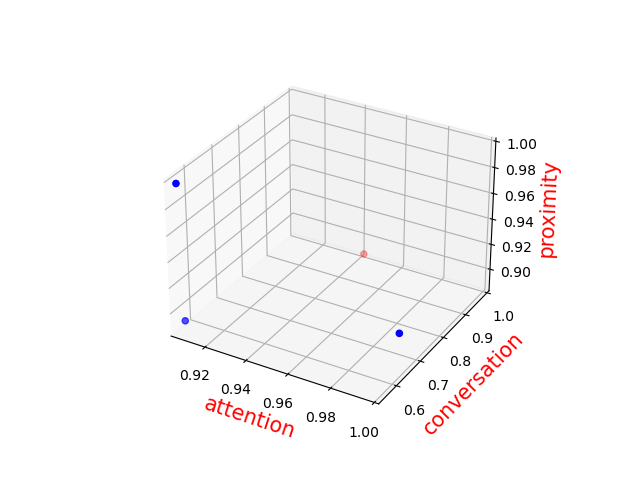
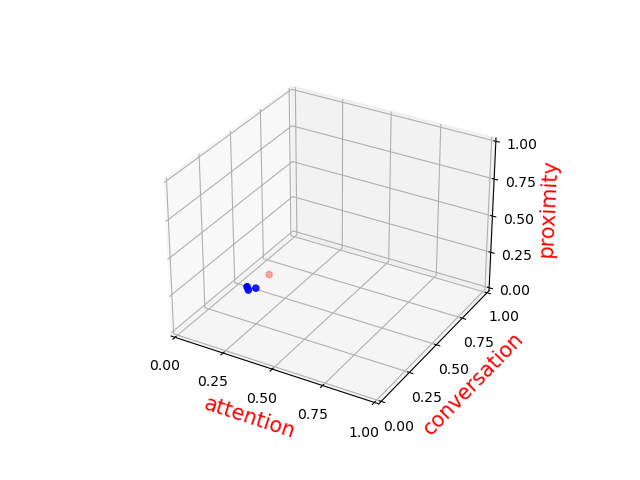
regression

diff --git a/cluster.py b/cluster.py
@@ -4,6 +4,7 @@ import re
 import numpy as np
 import matplotlib.pyplot as plt
 from mpl_toolkits.mplot3d import Axes3D
+import pandas as pd
 
 def extract_group_number(graph_id):
     match = re.search(r'group-(\d+)', graph_id)
@@ -28,11 +29,35 @@ def get_weight(json_file, normalize = False):
             group_weight[node_index[source]] = round(group_weight[node_index[source]] + weight,3)
             group_weight[node_index[target]] = round(group_weight[node_index[target]] + weight,3)
         if normalize:
-            group_weight = group_weight/np.max(group_weight)
+            group_weight = group_weight/np.sum(group_weight)
         edge_list.append(group_weight)
 
     return edge_list
 
+def visualize_cluster_results(group_list):
+    for i in range(len(group_list)):
+        X = np.array(group_list[i])
+
+        colors = ['red', 'blue']
+        mapped_colors = [colors[label] for label in cluster_labels[i]]
+        fig = plt.figure()
+        ax = fig.add_subplot(111, projection='3d')
+        ax.scatter(X[:, 0], X[:, 1], X[:, 2], c=mapped_colors, label='Data Points')
+        ax.set_xlim(np.min(X[:, 0]),np.max(X[:, 0]))
+        ax.set_ylim(np.min(X[:, 1]),np.max(X[:, 1]))
+        ax.set_zlim(np.min(X[:, 2]),np.max(X[:, 2]))
+
+        ax.set_zlabel('proximity', fontdict = {"size":15, 'color': 'red'})
+        ax.set_ylabel('conversation', fontdict = {"size":15, 'color': 'red'})
+        ax.set_xlabel('attention', fontdict = {"size":15, 'color': 'red'})
+        ax.set_xticks([0, 0.25, 0.5, 0.75, 1]) 
+        ax.set_yticks([0, 0.25, 0.5, 0.75, 1])             
+        ax.set_zticks([0, 0.25, 0.5, 0.75, 1])      
+
+        # ax.scatter(kmeans.cluster_centers_[:, 0], kmeans.cluster_centers_[:, 1], kmeans.cluster_centers_[:, 2], c='red', marker='x', label='Cluster Centers')
+        # plt.legend()
+        # plt.show()
+        plt.savefig("cluster_results/group"+str(i+1)+".png")
 
 
 json_file_list = ["proximity_graphs.json","conversation_graphs.json", "shared_attention_graphs.json"]
@@ -62,22 +87,67 @@ for group in group_list:
     centers.append(kmeans.cluster_centers_)
     inertia.append(kmeans.inertia_)
 
-for i in range(len(group_list)):
-    X = np.array(group_list[i])
+# visualize_cluster_results(group_list)
+print(cluster_labels)
+print(centers)
+# figure out which cluster is leader and supporter
 
-    colors = ['red', 'blue']
-    mapped_colors = [colors[label] for label in cluster_labels[i]]
-    fig = plt.figure()
-    ax = fig.add_subplot(111, projection='3d')
-    ax.scatter(X[:, 0], X[:, 1], X[:, 2], c=mapped_colors, label='Data Points')
-    ax.set_xlim(np.min(X[:, 0]),np.max(X[:, 0]))
-    ax.set_ylim(np.min(X[:, 1]),np.max(X[:, 1]))
-    ax.set_zlim(np.min(X[:, 2]),np.max(X[:, 2]))
+leader_ratio_list = []
 
-    ax.set_zlabel('proximity', fontdict = {"size":15, 'color': 'red'})
-    ax.set_ylabel('conversation', fontdict = {"size":15, 'color': 'red'})
-    ax.set_xlabel('attention', fontdict = {"size":15, 'color': 'red'})
-    # ax.scatter(kmeans.cluster_centers_[:, 0], kmeans.cluster_centers_[:, 1], kmeans.cluster_centers_[:, 2], c='red', marker='x', label='Cluster Centers')
-    # plt.legend()
-    # plt.show()
-    plt.savefig("cluster_results/group"+str(i+1)+".png")
+for i in range(len(cluster_labels)):
+    label_1 = np.count_nonzero(cluster_labels[i])
+    label_0 = 4 - label_1
+    count = 0
+    if centers[i][0][0] > centers[i][1][0]:
+        count = count + 1
+    if centers[i][0][1] > centers[i][1][1]:
+        count = count + 1
+    if centers[i][0][2] > centers[i][1][2]:
+        count = count + 1
+
+    if count >= 2: # label 0 is leader
+        leader_ratio_list.append(label_0/4)
+    else: # label 1 is leader
+        leader_ratio_list.append(label_1/4)
+
+df = pd.read_csv('completion_time_and_accuracy.csv')
+data = df.to_numpy()
+accuracy = np.array(df["Accuracy (%)"])
+complete_time = []
+for i in range(len(df["Completion Time"])):
+    time = df["Completion Time"][i]
+    match_min = re.search(r'\d{2}:(\d{2}):\d{2}\.\d+', time)
+    match_sec = re.search(r'\d{2}:\d{2}:(\d{2}\.\d+)', time)
+    total_sec = int(match_min.group(1)) * 60 + eval(match_sec.group(1))
+    complete_time.append(total_sec)
+complete_time = np.array(complete_time)
+effciency = []
+
+for i in range(len(complete_time)):
+    effciency.append(accuracy[i]/complete_time[i])
+
+print(complete_time)
+print(accuracy)
+print(leader_ratio_list)
+
+plt.figure(1)
+plt.scatter(leader_ratio_list, accuracy)
+plt.xticks([0,0.25,0.5,0.75,1])
+plt.xlabel("leader ratio")
+plt.ylabel("accuracy(%)")
+plt.savefig("accuracy.png")
+
+plt.figure(2)
+plt.scatter(leader_ratio_list, complete_time)
+plt.xticks([0,0.25,0.5,0.75,1])
+plt.xlabel("leader ratio")
+plt.ylabel("complete time(s)")
+plt.savefig("time.png")
+
+plt.figure(3)
+plt.scatter(leader_ratio_list, effciency)
+plt.xticks([0,0.25,0.5,0.75,1])
+plt.xlabel("leader ratio")
+plt.ylabel("effciency (accuracy/time)")
+plt.savefig("effciency.png")
+# plt.show()
